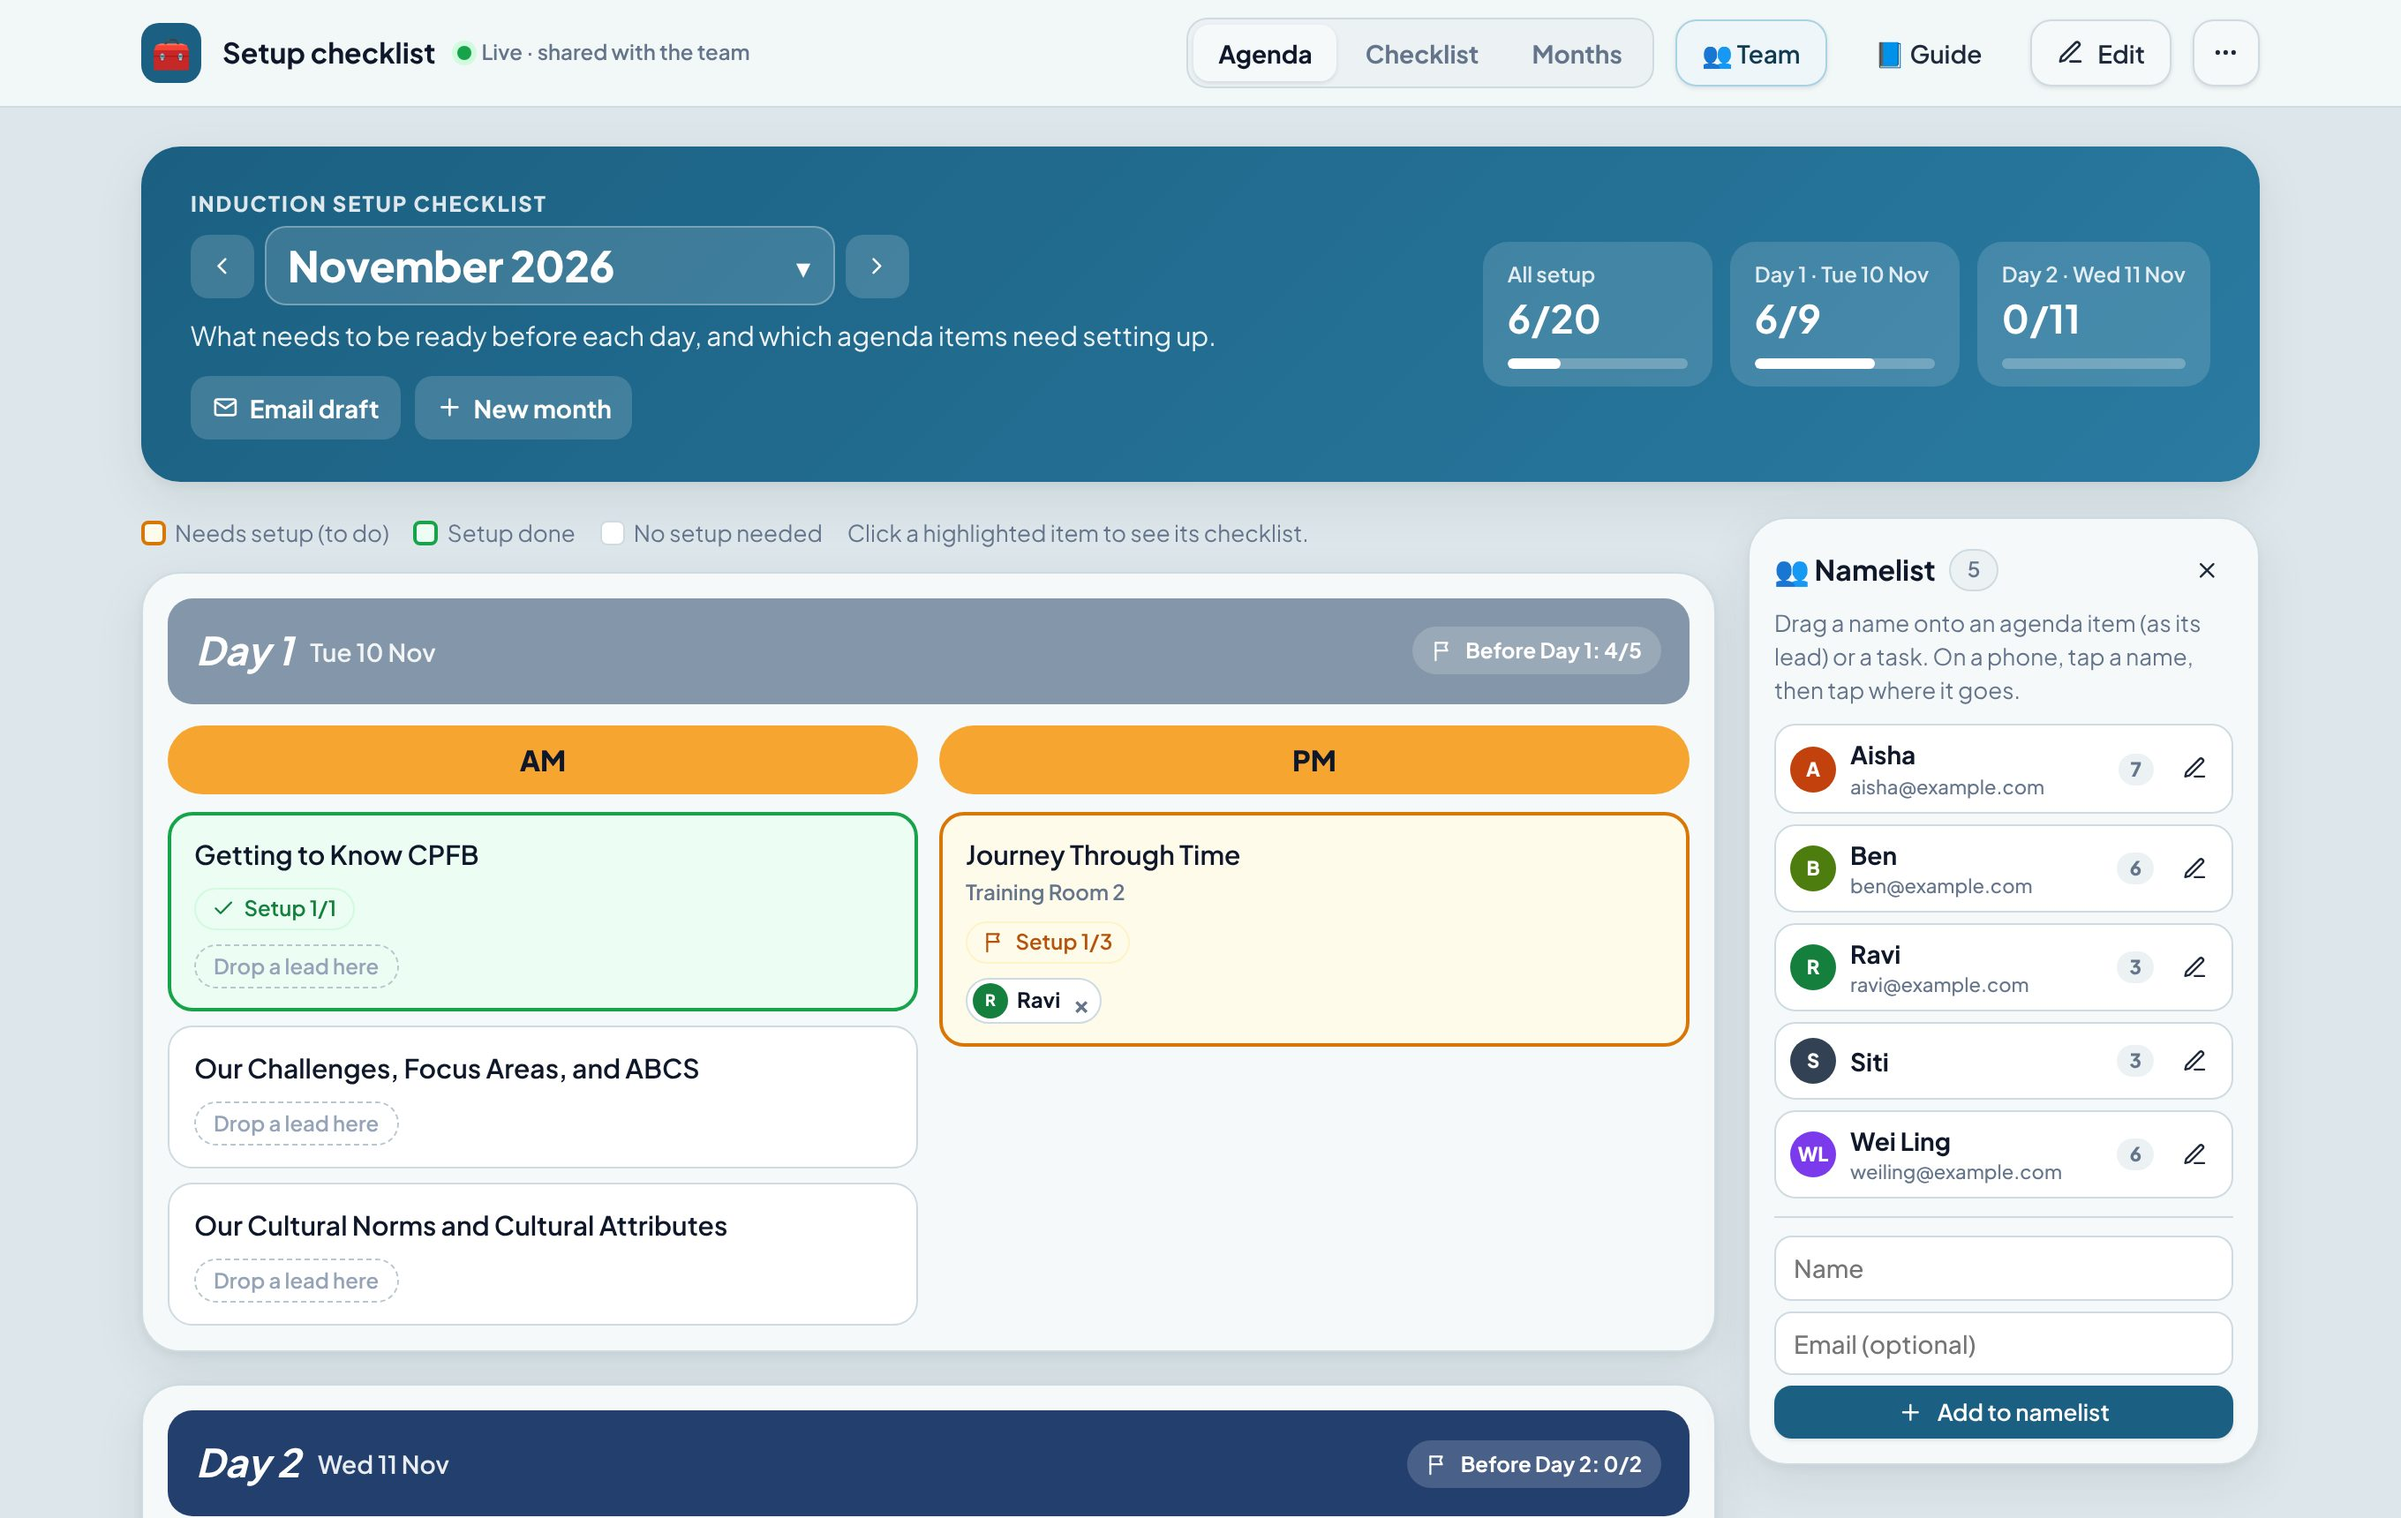
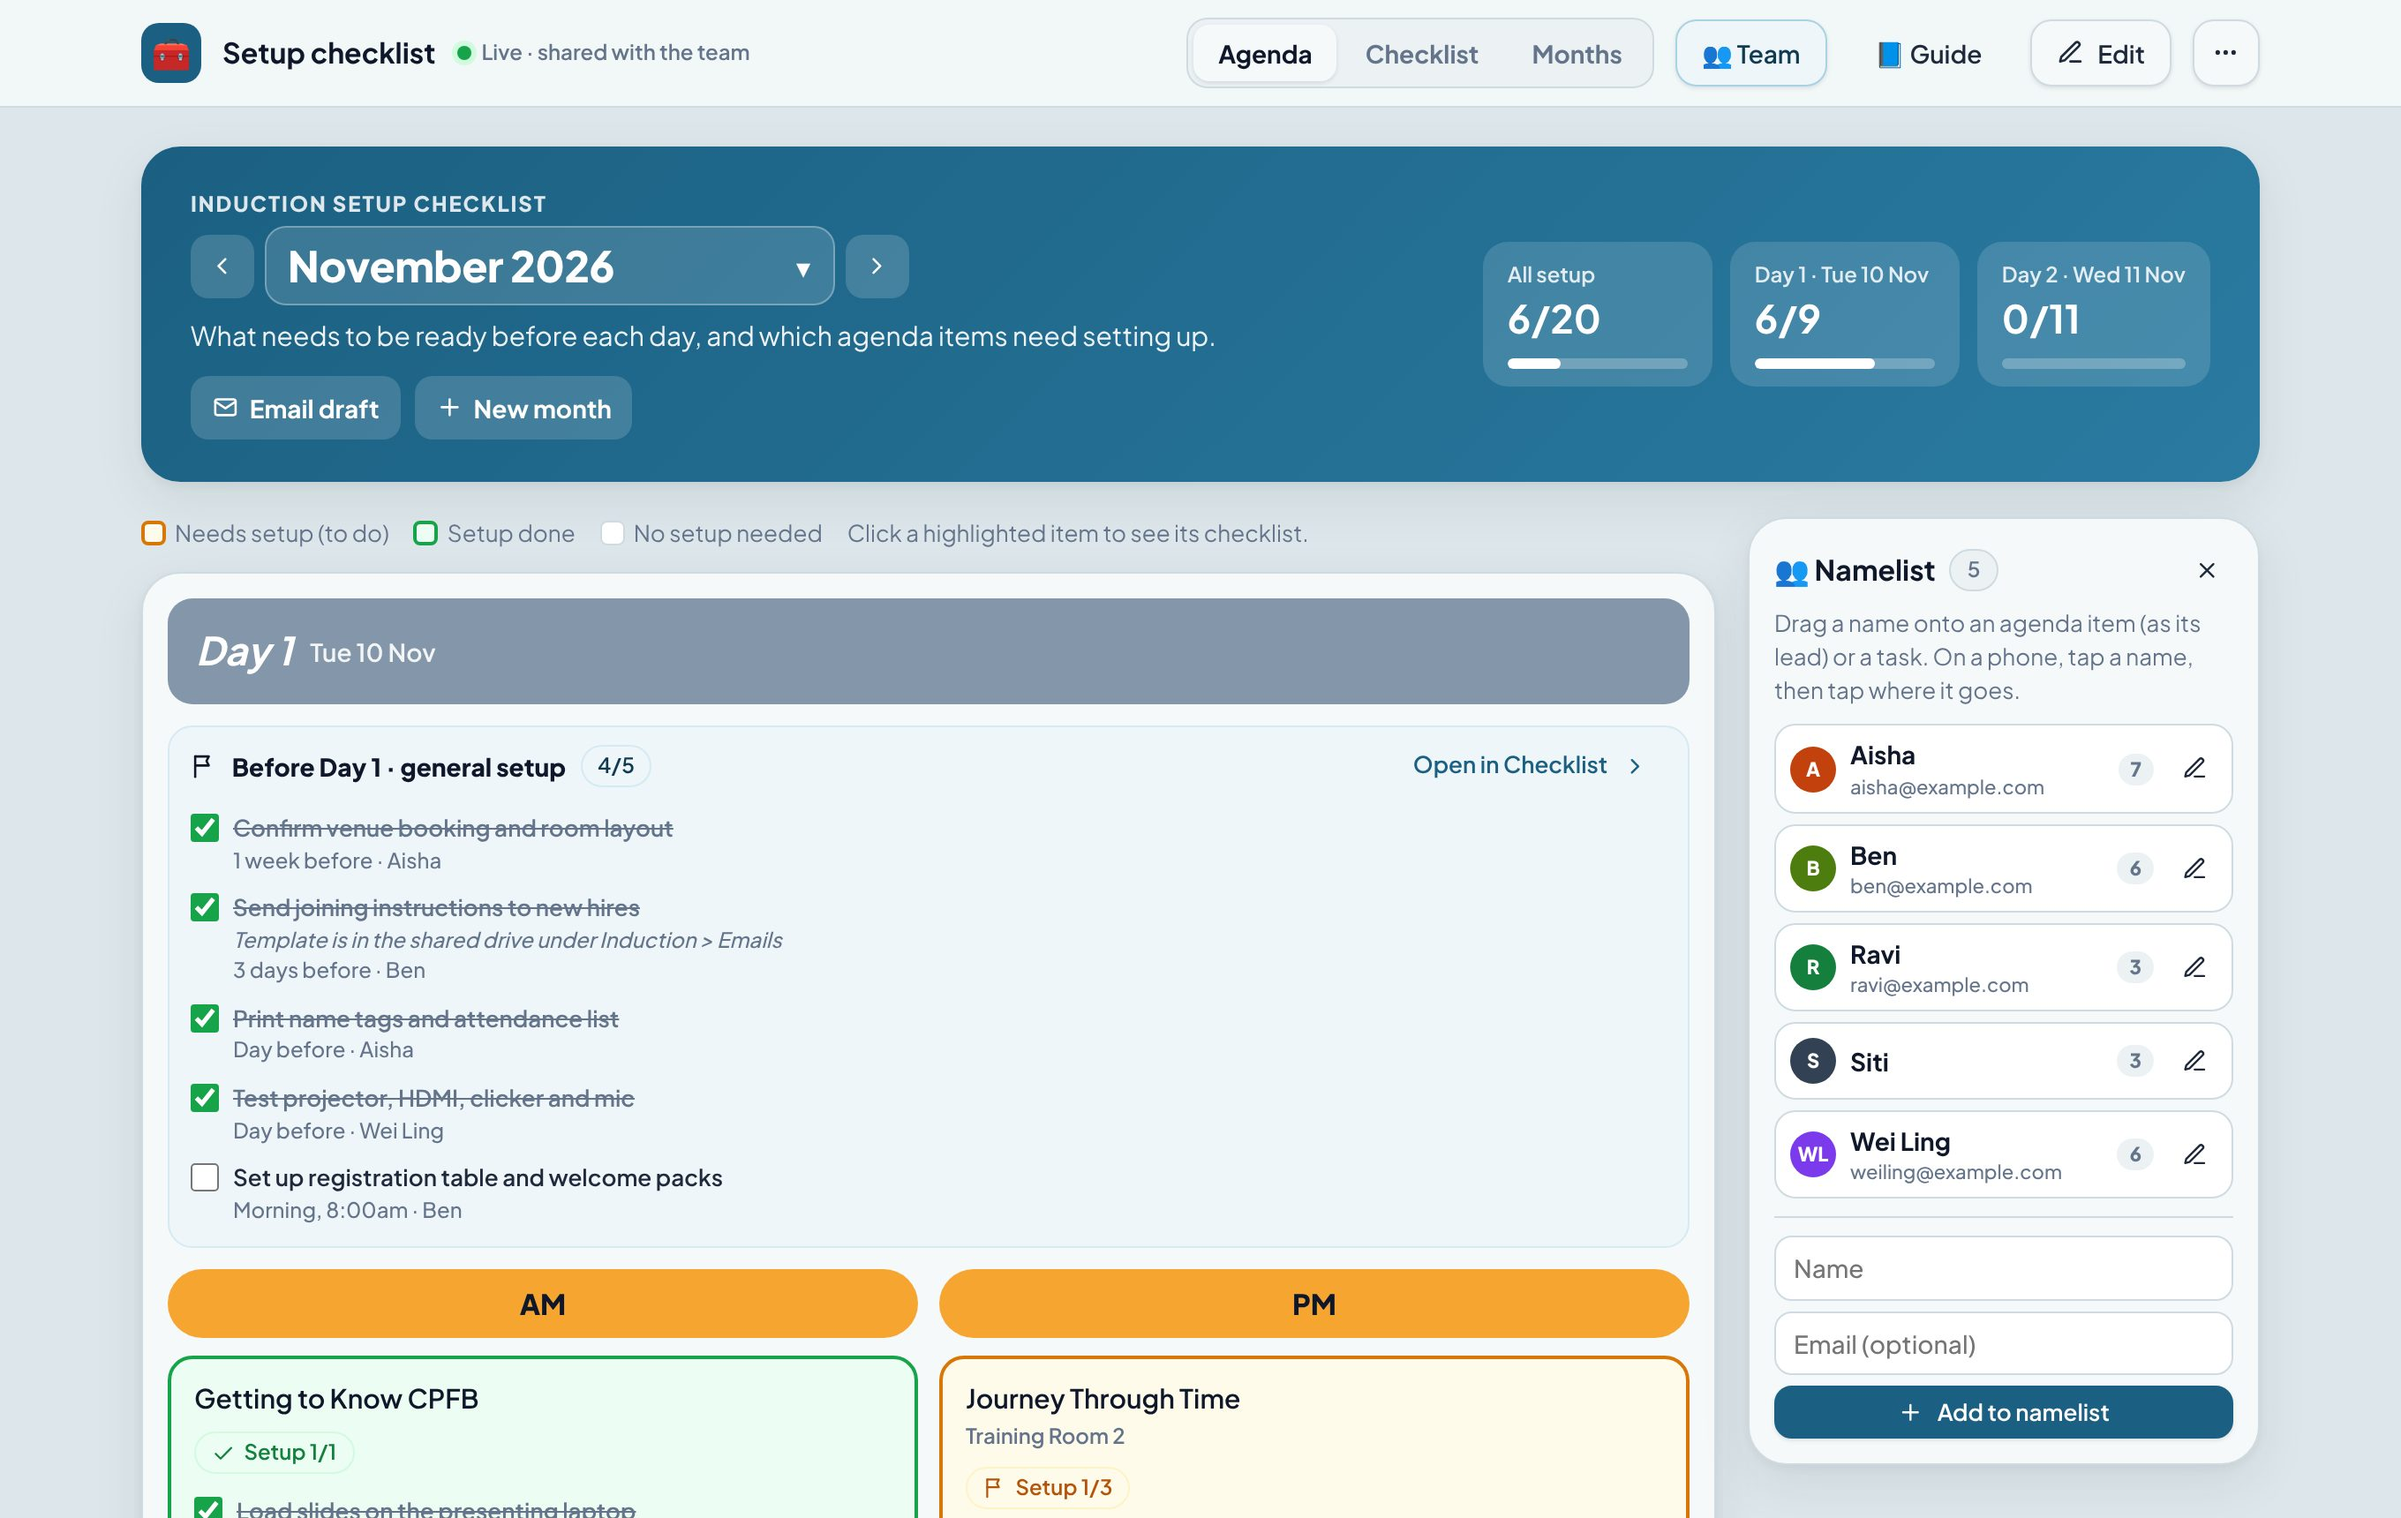
Agenda tab shows each day's general setup list, tickable in place
Also: headings for days named 'Before …' no longer say 'Before Before',
and task notes show in the agenda lists. Guide and screenshots updated.

Claude-Session: https://claude.ai/code/session_014iXK7t5TLLW7BnsmAVN5vn

Changed region(s): [[0.0625, 0.4006, 0.7188, 1.0]]

diff --git a/setup.html b/setup.html
@@ -121,10 +121,15 @@
   .sess.flag.done { border-color: var(--ok); background: var(--ok-50); }
   .sess.flag.done:hover { box-shadow: 0 0 0 4px var(--ok-100); }
   .sess .badge { display: flex; margin-top: 8px; }
+  .pre-box { background: var(--brand-50); border: 1px solid var(--brand-100); border-radius: 14px; padding: 8px 12px 8px; margin-top: 12px; }
+  .pre-head { display: flex; align-items: center; gap: 8px; flex-wrap: wrap; font-size: 14px; font-weight: 800; color: var(--ink); }
+  .pre-head .btn { height: 28px; color: var(--brand); }
+  .pre-box .mini label:hover { background: rgba(255,255,255,.8); }
   .mini { list-style: none; margin: 8px -6px 0; padding: 0; display: grid; gap: 1px; }
   .mini label { display: flex; gap: 8px; align-items: flex-start; font-size: 13px; font-weight: 600; color: var(--text); padding: 4px 6px; border-radius: 8px; cursor: pointer; }
   .mini label:hover { background: rgba(255,255,255,.75); }
   .mini input { width: 16px; height: 16px; margin: 1px 0 0; accent-color: var(--ok); flex: 0 0 auto; cursor: pointer; }
+  .mini small.mnote { font-style: italic; white-space: pre-line; }
   .mini small { display: block; font-size: 12px; font-weight: 500; color: var(--muted); }
   .mini .done .mt { text-decoration: line-through; color: var(--muted); }
   .sess-edit { background: #fff; border: 1px solid var(--line); border-radius: 14px; padding: 10px; display: grid; gap: 6px; }
@@ -580,6 +585,8 @@ function dayTasks(day) {
 }
 /* A task with no names of its own is done by its agenda item's lead(s). */
 const effWho = (t, x) => t.who.length ? t.who : (x?.who || []);
+/* Heading for a day's general list: "Before Day 1", or the day's own name if it already starts with "Before". */
+const preTitle = d => /^before\b/i.test(d.name.trim()) ? d.name.trim() : `Before ${d.name}`;
 const count = ts => ({ done: ts.filter(t => t.done).length, total: ts.length });
 const monthTasks = m => m.days.flatMap(dayTasks);
 /* Every assignment in a month: [{ pid, kind: "lead"|"task", day, slot, sess, task }] */
@@ -735,8 +742,13 @@ function renderAgenda(m) {
           <button class="btn sm" data-act="slot-add" ${A({ d: d.id })}>${icon("plus")}Time block</button>
           <button class="btn sm danger" data-act="day-del" ${A({ d: d.id })}>${icon("trash")}Delete day</button></div>
       </div></div>`
-      : `<div class="day-head"><h2>${esc(d.name)}</h2>${d.date ? `<span class="date">${esc(d.date)}</span>` : ""}
-          <button class="pre" data-act="goto" ${A({ k: "pre-" + d.id })}>${pre.done === pre.total && pre.total ? icon("check") : icon("flag")}Before ${esc(d.name)}: ${pre.done}/${pre.total}</button></div>`;
+      : `<div class="day-head"><h2>${esc(d.name)}</h2>${d.date ? `<span class="date">${esc(d.date)}</span>` : ""}</div>`;
+    // The day's general setup list, shown (and tickable) at the top of the day.
+    const preBox = d.pre.length ? `<div class="pre-box">
+        <div class="pre-head">${pre.done === pre.total ? icon("check") : icon("flag")}<span>${esc(preTitle(d))} · general setup</span><span class="chip ${pre.done === pre.total ? "ok" : "brand"}">${pre.done}/${pre.total}</span>
+          <div class="spacer"></div><button class="btn sm ghost" data-act="goto" ${A({ k: "pre-" + d.id })}>${ui.edit ? "Edit in Checklist" : "Open in Checklist"} ${icon("right")}</button></div>
+        ${miniTasks({ d: d.id }, d.pre, null, true)}</div>`
+      : ui.edit ? `<p class="hint" style="margin:12px 0 0">No general setup tasks for this day. Add them on the Checklist tab.</p>` : "";
     const slots = d.slots.map((sl, si) => `<div class="slot">
       <div class="pill">${ui.edit ? `<input class="input" data-edit="slot" ${A({ d: d.id, s: sl.id })} data-f="label" value="${esc(sl.label)}" placeholder="AM / PM / 9am">
           <button class="btn sm icon ghost" data-act="slot-move" ${A({ d: d.id, s: sl.id, v: -1 })} ${si === 0 ? "disabled" : ""} title="Move left">${icon("left")}</button>
@@ -746,8 +758,8 @@ function renderAgenda(m) {
         ${sl.sessions.map((x, xi) => ui.edit ? sessEdit(d, sl, x, xi) : sessCard(d, sl, x)).join("") || (ui.edit ? "" : `<div class="empty-slot">Nothing scheduled</div>`)}
         ${ui.edit ? `<button class="btn sm dashed" data-act="sess-add" ${A({ d: d.id, s: sl.id })}>${icon("plus")}Add agenda item</button>` : ""}
       </div></div>`).join("");
-    return `<section class="day" style="--day:${esc(d.color)}">${head}
-      <div class="slots" style="--n:${Math.max(1, Math.min(d.slots.length, 3))}">${slots || `<p class="muted">No time blocks yet.</p>`}</div></section>`;
+    return `<section class="day" style="--day:${esc(d.color)}">${head}${preBox}
+      <div class="slots" style="--n:${Math.max(1, Math.min(d.slots.length, 3))}">${slots || (ui.edit || !d.pre.length ? `<p class="muted">No time blocks yet.</p>` : "")}</div></section>`;
   }).join("");
   return legend + `<div class="agenda">${days || `<p class="muted">This month has no days yet. Click Edit, then Add a day.</p>`}${ui.edit ? `<button class="add-day" data-act="day-add"><span class="row">${icon("plus")}Add a day</span></button>` : ""}</div>`;
 }
@@ -763,13 +775,13 @@ function sessCard(d, sl, x) {
 /* The item's setup tasks, listed on its agenda card. They can be ticked right here.
    They are not drop targets: a name dropped anywhere on the card makes it the item's lead,
    which then covers every task that has no name of its own. */
-function miniTasks(ids, tasks, x) {
+function miniTasks(ids, tasks, x, dropTargets = false) {
   if (!tasks.length) return "";
   const names = t => effWho(t, x).map(person).filter(Boolean).map(p => p.name).join(", ");
   return `<ul class="mini">${tasks.map(t => {
     const a = { ...ids, t: t.id }, meta = [t.when, names(t)].filter(Boolean).map(esc).join(" · ");
-    return `<li class="${t.done ? "done" : ""}"><label><input type="checkbox" data-act="tick" ${A(a)} ${t.done ? "checked" : ""}>
-      <span><span class="mt">${esc(t.text) || "<i>(untitled)</i>"}</span>${meta ? `<small>${meta}</small>` : ""}</span></label></li>`;
+    return `<li class="${t.done ? "done" : ""}"${dropTargets ? ` data-drop="task" ${A(a)}` : ""}><label><input type="checkbox" data-act="tick" ${A(a)} ${t.done ? "checked" : ""}>
+      <span><span class="mt">${esc(t.text) || "<i>(untitled)</i>"}</span>${t.note ? `<small class="mnote">${esc(t.note)}</small>` : ""}${meta ? `<small>${meta}</small>` : ""}</span></label></li>`;
   }).join("")}</ul>`;
 }
 function sessEdit(d, sl, x, xi) {
@@ -817,7 +829,7 @@ function block(d, sl, x, tasks, visible) {
   const lead = x && (x.who.length || ui.team) ? `<span class="who"><span class="who-label">Lead</span>${whoChips(x.who, "sess", ids)}${x.who.length ? "" : dropHint("Drop a lead here")}</span>` : "";
   const head = x
     ? `<div class="block-head ev" data-drop="sess" ${A(ids)}><span class="slot-tag">${esc(sl.label)}</span><h3>${esc(x.title)}</h3>${x.time || x.venue ? `<span class="muted" style="font-size:13px;font-weight:600">${[x.time, x.venue].filter(Boolean).map(esc).join(" · ")}</span>` : ""}${lead}<div class="spacer"></div>${progChip(c)}</div>`
-    : `<div class="block-head pre">${icon("flag")}<h3>Before ${esc(d.name)} · general setup</h3><div class="spacer"></div><span class="chip ${c.total && c.done === c.total ? "ok" : "brand"}">${c.done}/${c.total}</span></div>`;
+    : `<div class="block-head pre">${icon("flag")}<h3>${esc(preTitle(d))} · general setup</h3><div class="spacer"></div><span class="chip ${c.total && c.done === c.total ? "ok" : "brand"}">${c.done}/${c.total}</span></div>`;
   const rows = list.map((t, i) => ui.edit ? taskEdit(ids, t, i, tasks.length, x) : taskRow(ids, t, x)).join("")
     || `<div class="empty">${ui.edit ? "No tasks yet." : "No setup tasks listed yet. Click Edit to add some."}</div>`;
   return `<div class="block" id="${x ? "ev-" + x.id : "pre-" + d.id}">${head}<ul class="tasks">${rows}</ul>
@@ -942,7 +954,7 @@ function buildEmail(m, { intro, outro, todoOnly, byPerson }) {
   const days = m.days.map(d => {
     const groups = [];
     const pre = d.pre.filter(keep);
-    if (pre.length) groups.push({ title: `Before ${d.name}`, sub: "", lead: "", tasks: pre, sess: null });
+    if (pre.length) groups.push({ title: preTitle(d), sub: "", lead: "", tasks: pre, sess: null });
     d.slots.forEach(sl => sl.sessions.forEach(x => {
       if (!x.setup) return;
       const ts = x.tasks.filter(keep);

diff --git a/setup-guide.html b/setup-guide.html
@@ -209,8 +209,9 @@
       <ul>
         <li><b>Colours:</b> orange = needs setup, still to do. Green = all its setup tasks are ticked. White = no setup needed.</li>
         <li><b>Progress at the top:</b> tasks done out of the total, for the whole month and for each day.</li>
+        <li><b>Each day starts with its general setup list</b> ("Before Day 1 · general setup"), so you can see and tick the day's general tasks without leaving the Agenda tab. On a phone, tap a name in 👥 Team, then tap one of these tasks to assign it.</li>
         <li><b>Highlighted items list their setup tasks</b>, with when each is due and who's doing it. You can tick tasks right there on the card.</li>
-        <li><b>Click a highlighted item</b> (anywhere except a task) to jump to its checklist. <b>Before Day N</b> in each day's header jumps to that day's general list.</li>
+        <li><b>Click a highlighted item</b> (anywhere except a task) to jump to its checklist. <b>Open in Checklist</b> on a day's general list jumps to it on the Checklist tab.</li>
       </ul>
     </section>
 
@@ -249,7 +250,7 @@
     <section id="edit-agenda">
       <h2><span class="n">3</span>Editing the agenda</h2>
       <p class="lead">Click <span class="ui">Edit</span>, then go to the <span class="ui">Agenda</span> tab. Edits apply to the month you're looking at. Changes save when you click or tab out of a box, or press <kbd>Enter</kbd>.</p>
-<figure class="shot narrow"><a href="guide-img/setup-edit-agenda.jpg" target="_blank" title="Open full size"><img src="guide-img/setup-edit-agenda.jpg" width="1784" height="1522" alt="Day 1 in Edit mode: boxes for the day name and date, colour dots, time block labels, and each agenda item's name, time, venue, lead and Needs setup tick box." loading="lazy"></a><figcaption>Day 1 in Edit mode.</figcaption></figure>
+<figure class="shot narrow"><a href="guide-img/setup-edit-agenda.jpg" target="_blank" title="Open full size"><img src="guide-img/setup-edit-agenda.jpg" width="1784" height="2140" alt="Day 1 in Edit mode: boxes for the day name and date, colour dots, time block labels, and each agenda item's name, time, venue, lead and Needs setup tick box." loading="lazy"></a><figcaption>Day 1 in Edit mode.</figcaption></figure>
       <table>
         <tr><th>To…</th><th>Do this</th></tr>
         <tr><td>Rename a day or add its date</td><td>Type in the two boxes in the day's header.</td></tr>
